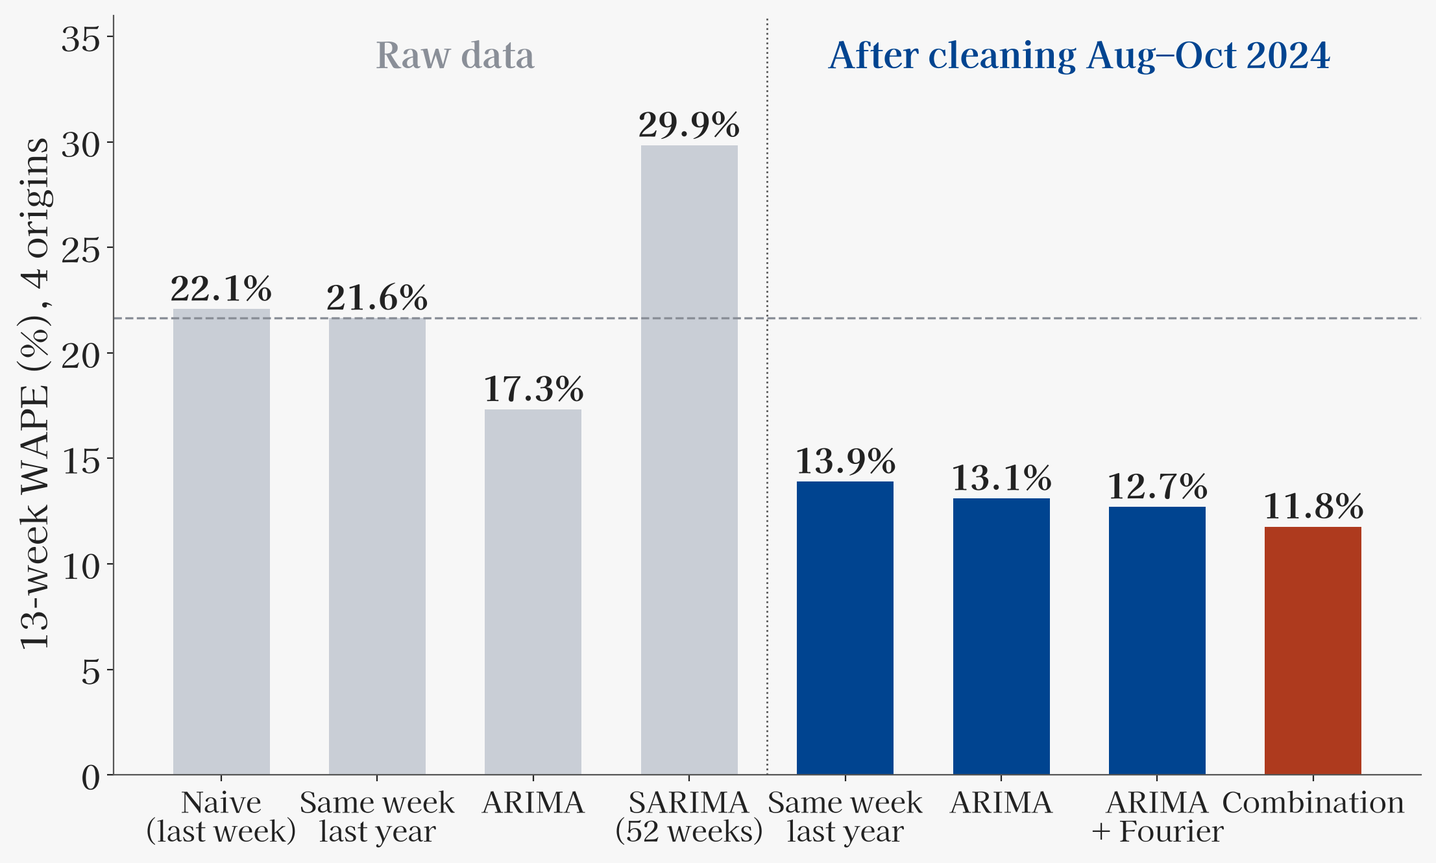
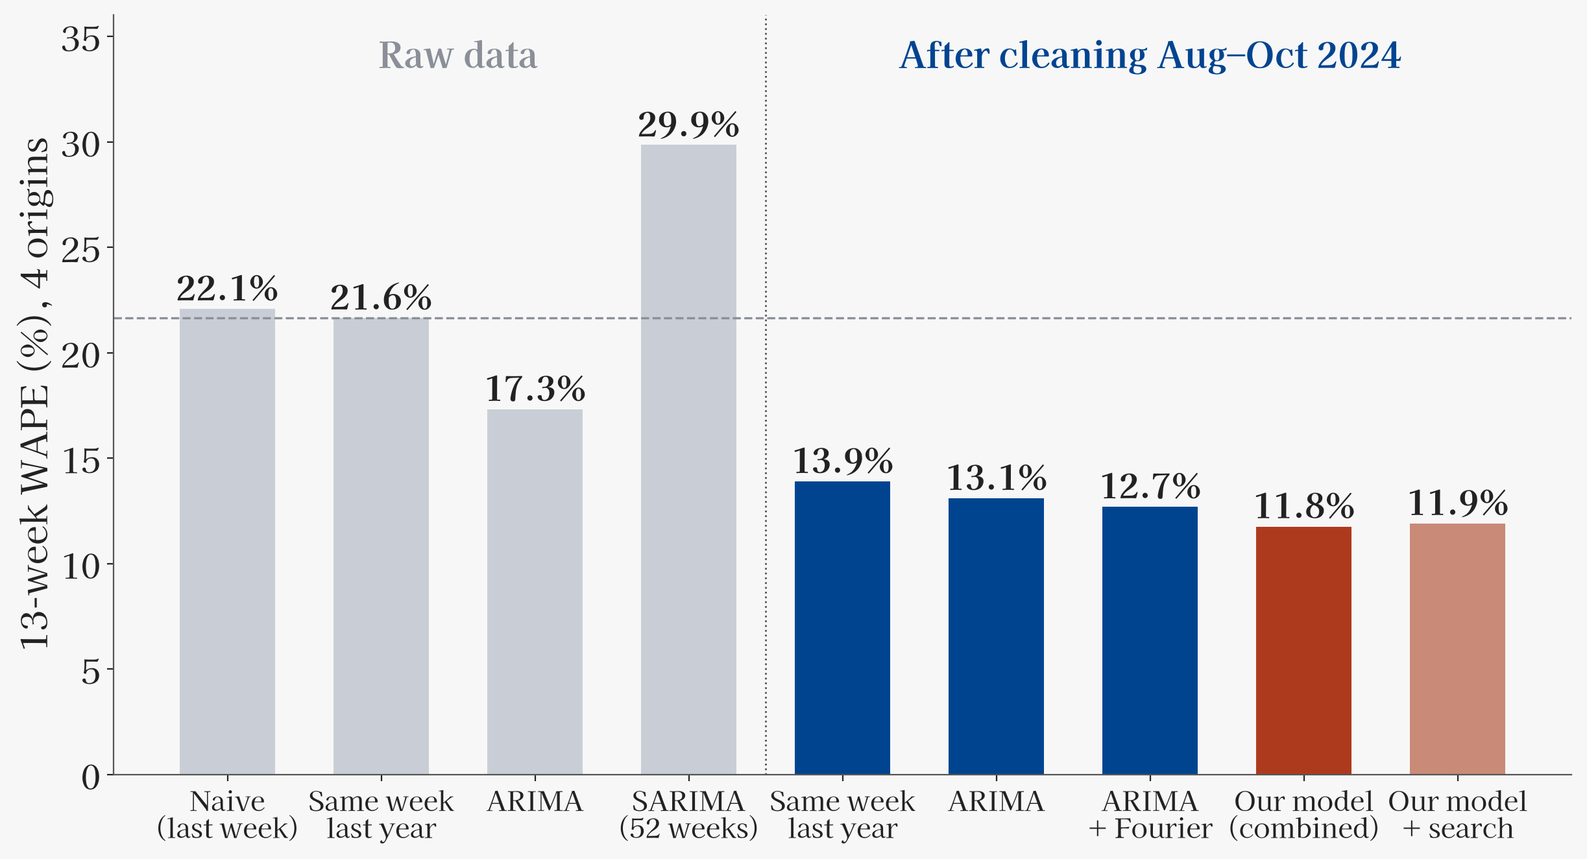
사례 4곳 선정, 대표 모델+검색 비교로 HTML·그림 갱신 준비
Claude-Session: https://claude.ai/code/session_01AfNJ3ybT6TkFXUcDjAEDS3

diff --git a/src/nametags/app_v4.html b/src/nametags/app_v4.html
@@ -632,7 +632,7 @@ function hotHTML(code){
     <div class="kpi"><small>핫플지수 <em>${wkLab(HT.weeks[i])}</em></small><b>${st.pct[u] == null ? '–' : Math.round(st.pct[u])}</b><span class="sub">13주 평균 하루 ${fmtn(st.lvl[u])}명</span></div>
     <div class="kpi"><small>1년 전보다 <em>서울 대비 비중</em></small><b class="${st.gr[u] > 0.05 ? 'up' : st.gr[u] < -0.05 ? 'down' : ''}">${fmtp1(st.gr[u])}</b><span class="sub">${st.grank[u] ? `떠오름 순위 ${st.grank[u]} / ${st.nEl}` : '규모가 작아 순위에서 제외'}</span></div></div>
     <div>${badge(st.hot.has(u), 'hot', '현재 핫스팟')}${badge(st.em.has(u), 'em', '떠오르는 곳')}</div>
-    <div class="kpis" style="margin-top:12px"><div class="kpi"><small>다음 13주 예측 <em>${wk(HT.fc.weeks[0])}~</em></small><b>${fmtn(fs.lvl[u])}</b><span class="sub">하루 평균 · 생활이동만(${esc(HT.fc.model)})${HT.fc.y2 && HT.fc.y2[u] ? `<br>우리 자료 넣으면 ${fmtn(HT.fc.y2[u].reduce((a, b) => a + b, 0) / 13)}` : ''}</span></div>
+    <div class="kpis" style="margin-top:12px"><div class="kpi"><small>다음 13주 예측 <em>${wk(HT.fc.weeks[0])}~</em></small><b>${fmtn(fs.lvl[u])}</b><span class="sub">하루 평균 · 생활이동만(${esc(HT.fc.model)})${HT.fc.y2 && HT.fc.y2[u] ? `<br>검색량 넣으면 ${fmtn(HT.fc.y2[u].reduce((a, b) => a + b, 0) / 13)}` : ''}</span></div>
     <div class="kpi"><small>예측 떠오름</small><b class="${fs.gr[u] > 0.05 ? 'up' : fs.gr[u] < -0.05 ? 'down' : ''}">${fmtp1(fs.gr[u])}</b><span class="sub">${badge(fs.hot.has(u), 'hot', '예측 핫스팟')}${badge(fs.em.has(u), 'em', '예측 떠오름')}</span></div></div>`;
   const months = HT.weeks.concat(HT.fc.weeks), pad = a => a.concat(Array(13).fill(null));
   const ma = d.y.map((_, j) => amean(d.y, j - 12, j)), ly = months.map((_, j) => j >= 52 ? (d.y[j - 52] ?? null) : null);
@@ -640,20 +640,20 @@ function hotHTML(code){
   const ser = [{name: '주별 실제', color: css('--sta'), width: 1, op: .45, data: pad(d.y), fmt: fmtn},
     {name: '13주 평균', color: css('--sta'), width: 2.4, data: pad(ma), fmt: fmtn, dot: true},
     {name: '예측: 생활이동만', color: css('--c5'), width: 2.4, data: fcl, fmt: fmtn}];
-  if (HT.fc.y2 && HT.fc.y2[u]) ser.push({name: '예측: + 우리 자료', color: '#7B4FB8', width: 2.2, data: Array(n - 1).fill(null).concat([d.y[n - 1]], HT.fc.y2[u]), fmt: fmtn});
+  if (HT.fc.y2 && HT.fc.y2[u]) ser.push({name: '예측: + 검색량', color: '#7B4FB8', width: 2.2, data: Array(n - 1).fill(null).concat([d.y[n - 1]], HT.fc.y2[u]), fmt: fmtn});
   const a0 = Math.max(0, Math.min(i - 26, n - 1 - 78));   // 최근 1년 반 + 예측 13주만 그린다
-  h += `<div class="ch"><div class="chh"><b>주별 생활이동과 13주 예측</b><span><span class="key"><i style="background:${css('--sta')}"></i>실제</span><span class="key"><i style="background:${css('--c5')}"></i>생활이동만</span><span class="key"><i style="background:#7B4FB8"></i>+우리 자료</span></span></div>
+  h += `<div class="ch"><div class="chh"><b>주별 생활이동과 13주 예측</b><span><span class="key"><i style="background:${css('--sta')}"></i>실제</span><span class="key"><i style="background:${css('--c5')}"></i>생활이동만</span><span class="key"><i style="background:#7B4FB8"></i>+검색량</span></span></div>
     ${lineChart(ser.map(x => ({...x, data: x.data.slice(a0)})), {w: W, h: 240, months: months.slice(a0), i: i - a0, tf: fmtK, tick: (m, j) => m.slice(5, 7) === '01' && +m.slice(8, 10) <= 7 ? m.slice(0, 4) : (m.slice(5, 7) === '07' && +m.slice(8, 10) <= 7 ? '7월' : null), fx: wkFx, shade: [n - 1 - a0, n + 12 - a0]})}</div>
     <div class="ax"><label><input type="checkbox" id="ax0" ${AX0 ? 'checked' : ''}>세로축 0부터</label></div>
     <p class="note">2024년 8~10월은 생활이동 서울 전체 값이 평소의 약 ${HT.anomaly ? HT.anomaly.factor : 1.5}배로 나왔지만 카드 매출은 그대로라 자료 이상으로 봤어요. 예측 모델은 이 구간을 그만큼 나눠 보정한 값으로 학습해요. 그래프는 원래 값이에요.</p>`;
   const E = HT.exp;
   if (E && E.y[u]) {
     const P2 = E.y2 && E.y2[u], wt = E.wape;
-    h += `<details open><summary>생활이동만 vs 우리 자료 넣기 (실험 4개 시점)</summary>
-      <p class="note">생활이동만 = 이 동의 지난 생활이동 값만 쓰는 대표 모델(${esc(E.model)}). 우리 자료 넣기 = ARIMA에 검색·지하철·개폐업을 넣어 본 조합 중 가장 좋았던 것(${esc(E.model2 || '')}). 숫자는 13주 오차(WAPE)로, 낮을수록 잘 맞춘 거예요.</p>
+    h += `<details open><summary>생활이동만 vs 검색량 넣기 (실험 4개 시점)</summary>
+      <p class="note">생활이동만 = 이 동의 지난 생활이동 값만 쓰는 대표 모델(${esc(E.model)}). 검색량 넣기 = 같은 대표 모델에 그 동의 검색량(서울 대비 비중, 4개월 전 달 값)을 더한 것(${esc(E.model2 || '')}). 지하철·개폐업도 같은 방식으로 넣어 봤지만 결과는 거의 같았어요. 숫자는 13주 오차(WAPE)로, 낮을수록 잘 맞춘 거예요.</p>
       ${wt ? `<table class="wt"><tr><th>서울 전체</th>${E.origins.map(o => `<th>${o.slice(2, 7).replace('-', '.')}</th>`).join('')}</tr>
         <tr><td>생활이동만</td>${E.origins.map(o => `<td class="${wt.main[o] <= wt.cmp[o] ? 'b' : ''}">${(+wt.main[o]).toFixed(1)}%</td>`).join('')}</tr>
-        <tr><td>+ 우리 자료</td>${E.origins.map(o => `<td class="${wt.cmp[o] < wt.main[o] ? 'b' : ''}">${(+wt.cmp[o]).toFixed(1)}%</td>`).join('')}</tr>
+        <tr><td>+ 검색량</td>${E.origins.map(o => `<td class="${wt.cmp[o] < wt.main[o] ? 'b' : ''}">${(+wt.cmp[o]).toFixed(1)}%</td>`).join('')}</tr>
         <tr><td>ARIMA (보정 전)</td>${E.origins.map(o => `<td>${wt.arima ? (+wt.arima[o]).toFixed(1) + '%' : '–'}</td>`).join('')}</tr>
         <tr><td>작년 같은 주</td>${E.origins.map(o => `<td>${(+wt.snaive[o]).toFixed(1)}%</td>`).join('')}</tr></table>` : ''}` + E.origins.map(o => {
       const oi = HT.weeks.indexOf(o), p = E.y[u][o]; if (oi < 0 || !p) return '';
@@ -665,8 +665,8 @@ function hotHTML(code){
       const pc = v => sy ? (v / sy * 100).toFixed(1) + '%' : '–';
       const sr = [{name: '실제', color: css('--sta'), width: 1.6, data: act, fmt: fmtn}, {name: '작년 같은 주', color: '#2F8F5B', width: 1.1, op: .8, data: sn, fmt: fmtn},
         {name: '생활이동만', color: css('--c5'), width: 2.2, data: pr, fmt: fmtn}];
-      if (pr2) sr.push({name: '+ 우리 자료', color: '#7B4FB8', width: 2, data: pr2, fmt: fmtn});
-      return `<div class="ch"><div class="chh"><b>${wk(o)} 시점</b><span>생활이동만 <b class="${q2 && ea <= ec ? 'win' : ''}">${pc(ea)}</b> · +우리 자료 <b class="${q2 && ec < ea ? 'win' : ''}">${q2 ? pc(ec) : '–'}</b> · 작년 ${pc(eb)}</span></div>${lineChart(sr, {w: W, h: 130, small: true, months: ms, i: oi - a, tf: fmtK, tick: (m, j, mm) => j % 8 === 0 ? `${+m.slice(5, 7)}월` : null, fx: wkFx, shade: [oi - a, ms.length - 1]})}</div>`; }).join('') + '</details>';
+      if (pr2) sr.push({name: '+ 검색량', color: '#7B4FB8', width: 2, data: pr2, fmt: fmtn});
+      return `<div class="ch"><div class="chh"><b>${wk(o)} 시점</b><span>생활이동만 <b class="${q2 && ea <= ec ? 'win' : ''}">${pc(ea)}</b> · +검색량 <b class="${q2 && ec < ea ? 'win' : ''}">${q2 ? pc(ec) : '–'}</b> · 작년 ${pc(eb)}</span></div>${lineChart(sr, {w: W, h: 130, small: true, months: ms, i: oi - a, tf: fmtK, tick: (m, j, mm) => j % 8 === 0 ? `${+m.slice(5, 7)}월` : null, fx: wkFx, shade: [oi - a, ms.length - 1]})}</div>`; }).join('') + '</details>';
   }
   return h;
 }

diff --git a/src/gt/07_map_data.py b/src/gt/07_map_data.py
@@ -1,7 +1,7 @@
 """지도 '핫플지수' 화면 자료 -> data/processed/gt/hot_map.json
 - 주별 생활이동(y)과 서울 대비 비중(s), 427동 -> 분석 단위 대응, 떠오르는 곳 규모 하한(2023년 고정)
 - 대표 모델: 결합 = 작년 같은 주(보정) + ARIMA + 푸리에(보정), 1:1 (03c 평가에서 4시점·이상 없는 2시점 모두 상위)
-- 비교 모델: 우리 자료(입력)를 넣은 ARIMAX 중 4시점 평균 WAPE가 가장 낮은 조합 (03b 평가)
+- 비교 모델: 대표 모델 + 검색량(서울 대비 비중, 4개월 전 달) = 작년 같은 주(보정) + ARIMA·푸리에·검색(보정), 1:1 (03e 평가, 2026-11-16 변경)
 - 실험 4개 시점 예측과 서울 전체 WAPE, 마지막 주 이후 13주 실시간 예측 (대표·비교 모델 모두)
 """
 import glob, json, importlib.util, sys
@@ -12,16 +12,13 @@ from common import units_of_dongs, MERGE
 
 T = pd.read_parquet(C.INTERIM / "target_weekly.parquet")
 t7 = pd.read_csv(C.TABLES / "t7_more_models.csv", index_col=0)
-t6 = pd.read_csv(C.TABLES / "t6_input_combo.csv", index_col=0)
+t9 = pd.read_csv(C.TABLES / "t9_clean_inputs.csv", index_col=[0, 1, 2])
 REP_ROW = "결합: 작년 같은 주 (보정) + ARIMA + 푸리에 (보정)"
 label = "작년 같은 주 + ARIMA·푸리에 결합"
-XL = {"search": "검색", "subway": "지하철", "fnb": "개폐업", "search_subway": "검색·지하철", "search_fnb": "검색·개폐업", "subway_fnb": "지하철·개폐업", "search_subway_fnb": "검색·지하철·개폐업"}
-cand = [k for k in t6.index if k.startswith("arimax|") and k.split("|")[1] in XL]
-cmp_key = min(cand, key=lambda k: t6.loc[k, "4시점 평균"])
-cmp_x = cmp_key.split("|")[1]
-label2 = f"ARIMAX + {XL[cmp_x]}"
+label2 = "작년 같은 주 + ARIMA·푸리에·검색량 결합"
+CMP_ROW = (1, "ARIMA+푸리에 (보정)", "검색")
 col_o = [c for c in t7.columns if c[:2] == "20"]
-wtab = {"main": {o: float(t7.loc[REP_ROW, o]) for o in col_o}, "cmp": {o: float(t6.loc[cmp_key, o]) for o in col_o},
+wtab = {"main": {o: float(t7.loc[REP_ROW, o]) for o in col_o}, "cmp": {o: float(t9.loc[CMP_ROW, o]) for o in col_o},
         "snaive": {o: float(t7.loc["작년 같은 주", o]) for o in col_o}, "arima": {o: float(t7.loc["ARIMA", o]) for o in col_o}}
 
 weeks = sorted(T.week_end.unique()); last = pd.Timestamp(weeks[-1])
@@ -36,21 +33,45 @@ def exp_of(m, x):
     for (u, o), g in P[(P.model == m) & (P.xset == x)].groupby(["unit", "origin"]):
         d.setdefault(u, {})[str(pd.Timestamp(o).date())] = [r3(v) for v in g.sort_values("h").y_hat]
     return d
-exp, exp2 = exp_of("comb_fourier", "none"), exp_of("arimax", cmp_x)
+exp = exp_of("comb_fourier", "none")
+Q = pd.concat([pd.read_parquet(f) for f in glob.glob(str(C.RESULTS / "pred_cleanx_*.parquet"))])
+Q = Q[(Q.model == "afx") & (Q.xset == "search")].merge(P[P.model == "snaive_c"][["origin", "unit", "week_end", "y_hat"]].rename(columns={"y_hat": "sn"}), on=["origin", "unit", "week_end"])
+Q = Q.assign(y_hat=(Q.y_hat + Q.sn) / 2, model="cmp", xset="none")
+P = pd.concat([P, Q[P.columns.intersection(Q.columns)]], ignore_index=True)
+exp2 = exp_of("cmp", "none")
 
 # 실시간 예측
 def load(name, file):
     spec = importlib.util.spec_from_file_location(name, str(C.ROOT / "src/gt" / file)); m = importlib.util.module_from_spec(spec)
     sys.argv = [sys.argv[0]]; spec.loader.exec_module(m); return m
-m2c, m02 = load("m2c", "02c_more_models.py"), load("m02", "02_models.py")
+m2c = load("m2c", "02c_more_models.py")
 o_last = str(last.date())
 R1 = Parallel(n_jobs=-1)(delayed(m2c.run_unit)(u, m2c.T[m2c.T.unit == u], [o_last]) for u in m2c.T.unit.unique())
 F1 = pd.concat([d for o, _ in R1 for d in o], ignore_index=True)
 F1 = F1.pivot_table(index=["unit", "week_end", "h"], columns="model", values="y_hat").reset_index()
 F1["rep"] = (F1.snaive_c + F1.arima_fourier) / 2
-R2 = Parallel(n_jobs=-1)(delayed(m02.run_unit)(u, m02.D[m02.D.unit == u], [o_last], [("arimax", cmp_x)]) for u in m02.D.unit.unique())
-F2 = pd.concat([d for o, _ in R2 for d in o], ignore_index=True)
-F2 = F2[(F2.model == "arimax") & (F2.xset == cmp_x)]
+XF = pd.read_parquet(C.INTERIM / "features_weekly.parquet")[["unit", "week_end"] + C.X_SETS["search"]]
+def live_search(u, g):
+    """대표 모델과 같은 차수(입력 없는 ARIMA+푸리에에서 AIC로 고름)에 검색 입력만 더함 (02e와 같은 규칙)"""
+    from statsmodels.tsa.statespace.sarimax import SARIMAX
+    g = g.set_index("week_end"); lyc = np.log1p(g.yc); o = pd.Timestamp(o_last)
+    tr = lyc[lyc.index <= o].dropna()
+    fut = pd.DatetimeIndex([o + pd.Timedelta(weeks=k) for k in range(1, C.H + 1)])
+    if len(tr) < 60: return None
+    b = m2c.fit_best(tr.values, m2c.fourier(tr.index))
+    if not b: return None
+    x = XF[XF.unit == u].set_index("week_end")[C.X_SETS["search"]].reindex(g.index.union(fut)).bfill().ffill()
+    if x.isna().all().any(): return None
+    mu, sd = x[x.index <= o].mean(), x[x.index <= o].std().replace(0, 1); xs = (x - mu) / sd
+    try:
+        r = SARIMAX(tr.values, exog=np.column_stack([m2c.fourier(tr.index), xs.reindex(tr.index).values]), order=b[1], trend="c" if b[1][1] == 0 else "n").fit(disp=False, maxiter=200)
+        pr = np.asarray(r.get_forecast(C.H, exog=np.column_stack([m2c.fourier(fut), xs.reindex(fut).values])).predicted_mean)
+    except Exception:
+        return None
+    return pd.DataFrame({"unit": u, "week_end": fut, "h": np.arange(1, C.H + 1), "afs": np.expm1(pr)})
+R2 = Parallel(n_jobs=-1)(delayed(live_search)(u, m2c.T[m2c.T.unit == u]) for u in m2c.T.unit.unique())
+F2 = pd.concat([d for d in R2 if d is not None], ignore_index=True).merge(F1[["unit", "h", "snaive_c"]], on=["unit", "h"])
+F2["y_hat"] = (F2.afs + F2.snaive_c) / 2
 fc_weeks = [str(pd.Timestamp(w).date()) for w in sorted(F1.week_end.dropna().unique())]
 fc = {u: [r3(v) for v in g.sort_values("h").rep] for u, g in F1.groupby("unit")}
 fc2 = {u: [r3(v) for v in g.sort_values("h").y_hat] for u, g in F2.groupby("unit")}

diff --git a/src/gt/11_slide_figs.py b/src/gt/11_slide_figs.py
@@ -61,17 +61,20 @@ t7 = pd.read_csv(TB / "t7_more_models.csv", index_col=0)
 col4, col2 = "4시점 평균", "2시점 평균(이상 구간 제외)"
 rows = [("Naive\n(last week)", "Naive", "raw"), ("Same week\nlast year", "작년 같은 주", "raw"), ("ARIMA", "ARIMA", "raw"), ("SARIMA\n(52 weeks)", "SARIMA", "raw"),
         ("Same week\nlast year", "작년 같은 주 (보정)", "clean"), ("ARIMA", "ARIMA (보정)", "clean"), ("ARIMA\n+ Fourier", "ARIMA + 푸리에 (보정)", "clean"),
-        ("Combination", "결합: 작년 같은 주 (보정) + ARIMA + 푸리에 (보정)", "clean")]
-f, ax = plt.subplots(figsize=(13, 7.6))
-x = np.arange(len(rows)); vals = [t7.loc[r[1], col4] for r in rows]
-cols = [LIGHT if r[2] == "raw" else NAVY for r in rows]; cols[-1] = RED
+        ("Our model\n(combined)", "결합: 작년 같은 주 (보정) + ARIMA + 푸리에 (보정)", "clean")]
+t9 = pd.read_csv(TB / "t9_clean_inputs.csv", index_col=[0, 1, 2])
+f, ax = plt.subplots(figsize=(14.5, 7.6))
+vals = [t7.loc[r[1], col4] for r in rows] + [t9.loc[(1, "ARIMA+푸리에 (보정)", "검색"), "4시점"]]
+rows = rows + [("Our model\n+ search", "", "clean")]
+x = np.arange(len(rows))
+cols = [LIGHT if r[2] == "raw" else NAVY for r in rows]; cols[-2] = RED; cols[-1] = "#C98A78"
 ax.bar(x, vals, color=cols, width=.62)
 for xi, v in zip(x, vals): ax.text(xi, v + .4, f"{v:.1f}%", ha="center", fontsize=19, fontweight="bold")
 ax.axhline(t7.loc["작년 같은 주", col4], color=GREY, ls="--", lw=1.2)
 ax.axvline(3.5, color="#555555", lw=1, ls=":")
 ax.text(1.5, 33.5, "Raw data", ha="center", fontsize=20, color=GREY, fontweight="bold")
-ax.text(5.5, 33.5, "After cleaning Aug–Oct 2024", ha="center", fontsize=20, color=NAVY, fontweight="bold")
-ax.set_xticks(x, [r[0] for r in rows], rotation=0, fontsize=16)
+ax.text(6, 33.5, "After cleaning Aug–Oct 2024", ha="center", fontsize=20, color=NAVY, fontweight="bold")
+ax.set_xticks(x, [r[0] for r in rows], rotation=0, fontsize=15)
 ax.set_ylabel("13-week WAPE (%), 4 origins"); ax.set_ylim(0, 36)
 save(f, "S3_results.png")
 
@@ -122,7 +125,7 @@ save(f, "S5_example.png")
 # ---- S6 사다리: 팀원 설정에서 한 가지씩 고치기 ----
 try:
     LD = pd.read_csv(TB / "t8_ladder.csv")
-    labs = ["Teammate\nsetup", "52-week\nseason", "Orders\nby AIC", "Search as\nSeoul share", "Cleaned\ndata", "+ same week\nlast year"]
+    labs = ["First-draft\nsetup", "52-week\nseason", "Orders\nby AIC", "Search as\nSeoul share", "Cleaned\ndata", "+ same week\nlast year"]
     f, axs = plt.subplots(1, 2, figsize=(17, 6.6), sharey=True)
     for ax, (c1, c0, ttl) in zip(axs, (("검색O 04-27", "검색X 04-27", "Forecast date 2025-04-27 only"), ("검색O 2시점", "검색X 2시점", "Average of 2 dates without the anomaly"))):
         x = np.arange(len(LD)); w = .38
@@ -157,4 +160,39 @@ try:
 except FileNotFoundError:
     print("S7 생략: t10 없음")
 
+print("저장:", sorted(p.name for p in OUT.glob("*.png")))
+
+# ---- S8 사례 4곳 (2025-04-27): 대표 모델 최고·최악, 검색 추가로 가장 좋아진·나빠진 동 ----
+try:
+    cs = pd.read_csv(TB / "case4.csv", dtype={"unit": str}); jd = pd.read_csv(TB / "case4_judge.csv", dtype={"unit": str})
+    S = pd.read_parquet(C.RESULTS / "case4_series.parquet")
+    EN = {"11410640": "Hongje 3-dong (Seodaemun)", "11440630": "Sinsu-dong (Mapo)", "11320512": "Chang 2-dong (Dobong)", "11500604": "Gayang 2-dong (Gangseo)"}
+    TT = {"rep_best": "Our model · best", "rep_worst": "Our model · worst", "search_best": "+ Search · helped most", "search_worst": "+ Search · hurt most"}
+    O8 = pd.Timestamp("2025-04-27")
+    f, axs = plt.subplots(2, 2, figsize=(17, 10.4))
+    import matplotlib.dates as mdates
+    for ax, (_, r) in zip(axs.flat, cs.iterrows()):
+        u = r.unit; g = T[T.unit == u].set_index("week_end").y
+        win = g[(g.index > O8 - pd.Timedelta(weeks=26)) & (g.index <= O8 + pd.Timedelta(weeks=13))]
+        s = S[S.unit == u].set_index("week_end")
+        ax.axvspan(O8, O8 + pd.Timedelta(weeks=13), color="#E3E9F3", lw=0)
+        ax.plot(win.index, win.values, color=INK, lw=2.2, label="Observed")
+        ax.plot(s.index, s.sn, color=GREY, lw=1.6, ls=":", label="Same week last year")
+        ax.plot(s.index, s.rep, color=RED, lw=2.6, label="Our model")
+        srch = r.role.startswith("search")
+        if srch: ax.plot(s.index, s.rep_s, color=NAVY, lw=2.6, ls="--", label="Our model + search")
+        ax.axvline(O8, color=INK, lw=1, ls=":")
+        ax.set_title(f"{TT[r.role]}:  {EN[u]}", loc="left", color=NAVY, fontweight="bold", fontsize=21)
+        txt = (f"error {r.wape_rep:.1f}% → {r.wape_rep_search:.1f}% with search" if srch else f"error {r.wape_rep:.1f}%  (last year {r.wape_lastyear:.1f}%)")
+        ax.text(0.015, 0.04, txt, transform=ax.transAxes, fontsize=18, color=NAVY if srch else RED, fontweight="bold")
+        lo, hi = min(win.min(), s[["sn", "rep", "rep_s"]].min().min()), max(win.max(), s[["sn", "rep", "rep_s"]].max().max())
+        ax.set_ylim(lo - (hi - lo) * .28, hi + (hi - lo) * .12)
+        ax.xaxis.set_major_locator(mdates.MonthLocator(bymonth=[11, 1, 3, 5, 7])); ax.xaxis.set_major_formatter(mdates.DateFormatter("%b %y"))
+        ax.tick_params(labelsize=16); ax.yaxis.set_major_formatter(matplotlib.ticker.FuncFormatter(lambda v, p: f"{v:,.0f}"))
+    h1, l1 = axs[1, 0].get_legend_handles_labels()
+    f.legend(h1, l1, loc="upper center", ncol=4, frameon=False, fontsize=18, bbox_to_anchor=(0.5, 1.035))
+    f.text(0.005, 0.5, "Daily arrivals, age 20–39", rotation=90, va="center", fontsize=19)
+    f.tight_layout(rect=(0.015, 0, 1, 0.98)); save(f, "S8_cases.png")
+except FileNotFoundError as e:
+    print("S8 생략:", e)
 print("저장:", sorted(p.name for p in OUT.glob("*.png")))

diff --git a/src/gt/12_cases.py b/src/gt/12_cases.py
@@ -1,0 +1,58 @@
+"""발표용 사례 4곳 고르기 (2025-04-27 시점, 13주 예측)
+- 대표 모델(작년 같은 주(보정) + ARIMA·푸리에(보정) 1:1 결합): 동별 WAPE 최저·최고
+- 대표 모델 + 검색: 대표 모델 대비 WAPE가 가장 많이 준 동·가장 많이 는 동
+대상: 공통 416동 중 규모 하한(2023년 하위 25%) 이상인 동 (예측 시점 직전 13주 평균)
+출력: reports/gt_midterm/tables/case4.csv, results/gt/case4_series.parquet
+"""
+import glob
+import numpy as np, pandas as pd
+import config as C
+
+O = pd.Timestamp("2025-04-27")
+T = pd.read_parquet(C.INTERIM / "target_weekly.parquet")[["unit", "week_end", "y"]]
+com = set(pd.read_parquet(C.RESULTS / "unit_metrics.parquet").unit)
+floor = pd.read_csv(C.TABLES / "emerging_min_level.csv", index_col=0).loc["min_level", "value"]
+lvl = T[(T.week_end <= O) & (T.week_end > O - pd.Timedelta(weeks=13))].groupby("unit").y.mean()
+units = [u for u in com if lvl.get(u, 0) >= floor]
+
+B = pd.read_parquet(C.RESULTS / f"pred_more_{O.date()}.parquet")
+X = pd.read_parquet(C.RESULTS / f"pred_cleanx_{O.date()}.parquet")
+sn = B[B.model == "snaive_c"].set_index(["unit", "week_end"]).y_hat
+af = B[B.model == "arima_fourier"].set_index(["unit", "week_end"]).y_hat
+afs = X[(X.model == "afx") & (X.xset == "search")].set_index(["unit", "week_end"]).y_hat
+D = pd.DataFrame({"sn": sn, "rep": (sn + af) / 2, "rep_s": (sn + afs) / 2}).dropna().reset_index()
+D = D[D.unit.isin(units)].merge(T, on=["unit", "week_end"])
+w = D.assign(a=(D.y - D.rep).abs(), b=(D.y - D.rep_s).abs(), c=(D.y - D.sn).abs()).groupby("unit")[["a", "b", "c", "y"]].sum()
+W = pd.DataFrame({"rep": w.a / w.y * 100, "rep_s": w.b / w.y * 100, "sn": w.c / w.y * 100})
+W["d"] = W.rep_s - W.rep
+
+names = pd.read_csv(C.ROOT / "data/processed/nametags/01_행정동_목록.csv", encoding="utf-8-sig", dtype=str)
+print(names.columns.tolist()[:8])
+pick = [("rep_best", W.rep.idxmin()), ("rep_worst", W.rep.idxmax()), ("search_best", W.d.idxmin()), ("search_worst", W.d.idxmax())]
+out = pd.DataFrame([(r, u, *W.loc[u, ["rep", "rep_s", "sn", "d"]].round(2), round(lvl[u])) for r, u in pick],
+                   columns=["role", "unit", "wape_rep", "wape_rep_search", "wape_lastyear", "d_search", "level_13w"])
+out["n_units"] = len(W)
+out["rank_rep"] = [int(W.rep.rank().loc[u]) for u in out.unit]
+out.to_csv(C.TABLES / "case4.csv", index=False, encoding="utf-8-sig")
+D[D.unit.isin(out.unit)].to_parquet(C.RESULTS / "case4_series.parquet", index=False)
+print(out.to_string(index=False))
+print("search better share:", round((W.d < 0).mean(), 3), "| median d:", round(W.d.median(), 2))
+
+# 판정: 예측(대표 모델·대표+검색)과 실제로 본 순위. 떠오르는 곳은 규모 하한 이상 동 중 순위
+yw = T.pivot(index="week_end", columns="unit", values="y")
+Tsh = pd.read_parquet(C.INTERIM / "target_weekly.parquet").pivot(index="week_end", columns="unit", values="share")
+w = yw.index[(yw.index > O) & (yw.index <= O + pd.Timedelta(weeks=C.H))]
+prev = w - pd.Timedelta(weeks=C.SEASON)
+base_sh = Tsh.reindex(prev).mean()
+F = pd.DataFrame({"sn": sn, "rep": (sn + af) / 2, "rep_s": (sn + afs) / 2}).reset_index()
+F = F[F.unit.isin(com)]
+J = []
+for col in ("rep", "rep_s", "actual"):
+    g = yw.reindex(w)[list(com)] if col == "actual" else F.pivot(index="week_end", columns="unit", values=col).reindex(w)
+    lv = g.mean(); gr = g.div(g.sum(axis=1), axis=0).mean() / base_sh.reindex(g.columns) - 1
+    grk = gr[gr.index.isin(units)].rank(ascending=False)
+    for u in out.unit:
+        J.append((u, col, int(lv.rank(ascending=False)[u]), int(grk.get(u, np.nan)) if u in grk else None, round(gr[u] * 100, 1), len(lv), len(grk)))
+J = pd.DataFrame(J, columns=["unit", "by", "hot_rank", "emerging_rank", "growth_pct", "n_hot", "n_em"])
+J.to_csv(C.TABLES / "case4_judge.csv", index=False, encoding="utf-8-sig")
+print(J.to_string(index=False))

diff --git a/reports/gt_midterm/slides/make_numbers.py b/reports/gt_midterm/slides/make_numbers.py
@@ -59,6 +59,19 @@ if (TB / "t10_placebo.csv").exists():
     W10 = pd.read_csv(TB / "t10_placebo.csv", index_col=[0, 1])
     N["pl"] = {k: {c: f"{W10.loc[('s13', k), c]:.1f}" for c in ("2025-04-27", "4시점")} for k in ("none", "search_index", "placebo", "subway_exit_4w", "fnb_net3")}
     N["pl_msg"] = "Own search wins at one date only (not significant); over 4 dates it adds error"
+# 대표 모델 + 검색 (03e), 사례 4곳 (12_cases)
+t9 = pd.read_csv(TB / "t9_clean_inputs.csv", index_col=[0, 1, 2]); rs = t9.loc[(1, "ARIMA+푸리에 (보정)", "검색")]
+N["srch4"] = f"{rs['4시점']:.1f}"; N["srch2"] = f"{rs['2시점(이상 제외)']:.1f}"
+t9t = pd.read_csv(TB / "t9_clean_inputs_tests.csv")
+r = t9t[(t9t["결합"] == 1) & (t9t["모델"] == "ARIMA+푸리에") & (t9t["입력"] == "검색")].iloc[0]
+N["srch_imp"] = round(r["좋아진 동·시점"] * 100); N["srch_p"] = f"{r['wilcoxon_p']:.4f}"
+cs = pd.read_csv(TB / "case4.csv", dtype={"unit": str}).set_index("role"); jd = pd.read_csv(TB / "case4_judge.csv", dtype={"unit": str})
+N["case"] = {k: {"wape": f"{cs.loc[k, 'wape_rep']:.1f}", "wape_s": f"{cs.loc[k, 'wape_rep_search']:.1f}", "ly": f"{cs.loc[k, 'wape_lastyear']:.1f}",
+                 "rank": int(cs.loc[k, "rank_rep"]), "n": int(cs.loc[k, "n_units"]),
+                 **{f"{b}_{c}": (None if pd.isna(v) else (int(v) if c != "growth_pct" else round(float(v), 1)))
+                    for b in ("rep", "rep_s", "actual") for c in ("hot_rank", "emerging_rank", "growth_pct")
+                    for v in [jd[(jd.unit == cs.loc[k, "unit"]) & (jd.by == b)][c].iloc[0]]}} for k in cs.index}
+N["n_em"] = int(jd.n_em.iloc[0]); N["em_top"] = int(round(N["n_em"] * C.HOT_TOP))
 N["ratio"] = {p.name: (lambda im: im.size[0] / im.size[1])(Image.open(p)) for p in (HERE / "fig").glob("*.png")}
 json.dump(N, open(HERE / "deck_numbers.json", "w"), ensure_ascii=False, indent=1)
 print({k: v for k, v in N.items() if k not in ("table", "ratio")})
